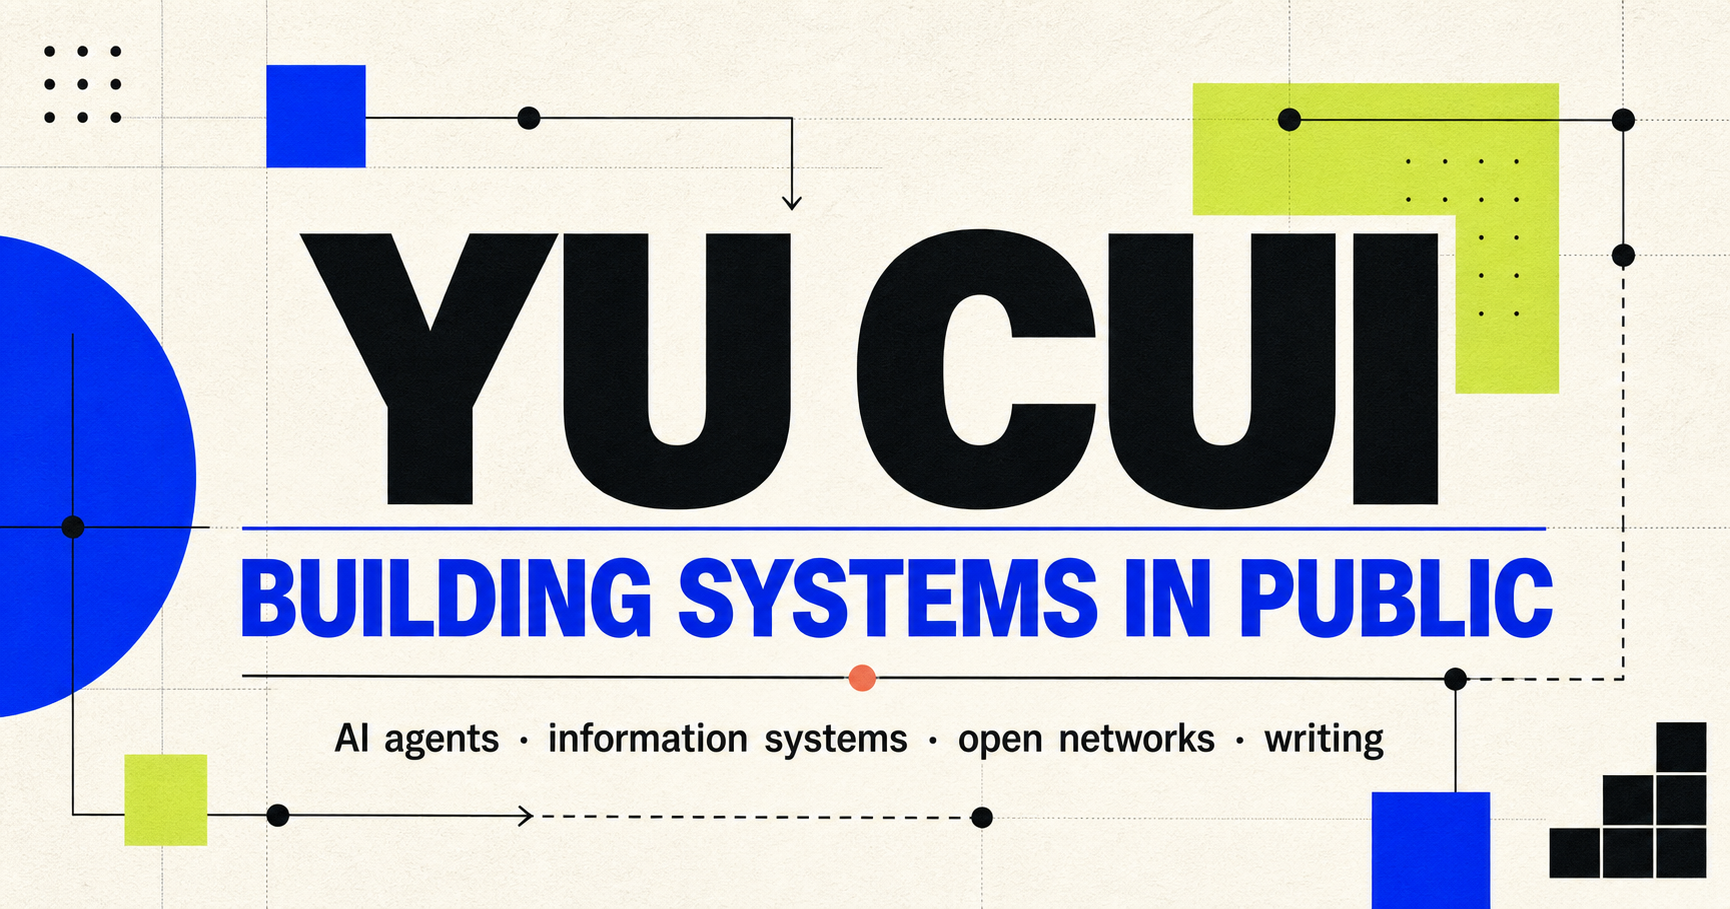
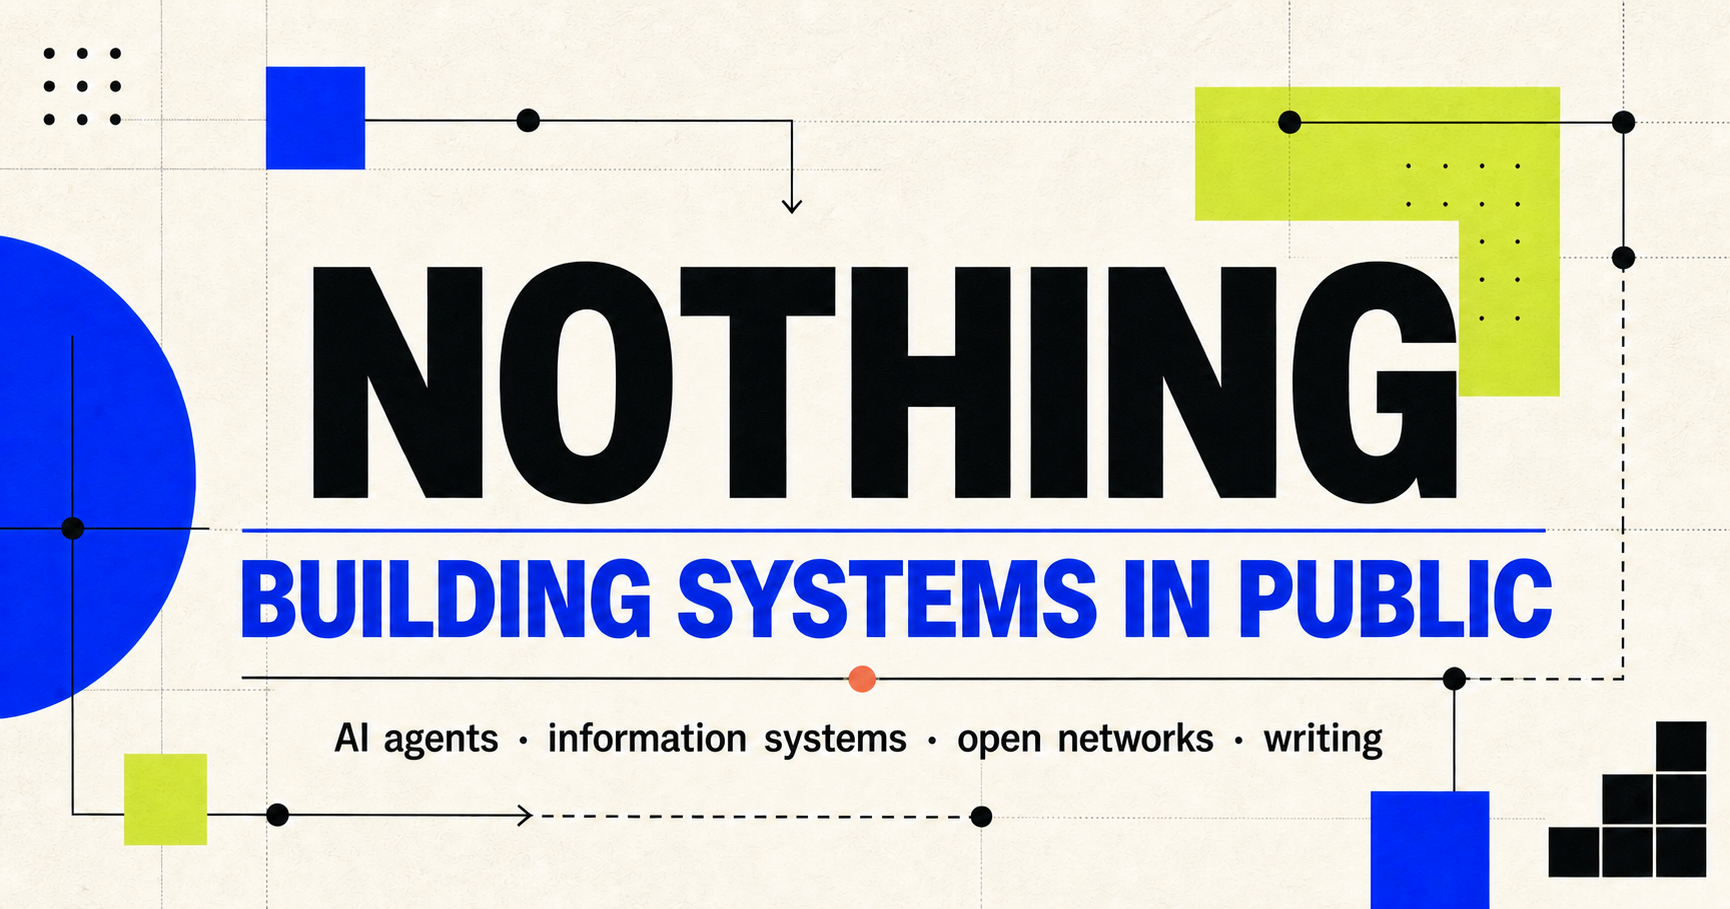
fix: publish anonymous social preview

diff --git a/index.html b/index.html
@@ -6,23 +6,30 @@
     <meta name="theme-color" content="#f4f0e8" />
     <meta
       name="description"
-      content="Yu Cui builds AI agent infrastructure, information systems, open-network experiments, and serialized fiction."
+      content="Nothing builds AI agent infrastructure, information systems, open-network experiments, and serialized fiction at @ChoeyCui."
     />
-    <meta property="og:title" content="Yu Cui — Builder profile" />
+    <meta property="og:title" content="Nothing — Builder profile" />
     <meta
       property="og:description"
-      content="AI agents, infrastructure, information systems, open networks, and writing. Inspect the work in Yu's Build Matrix."
+      content="AI agents, infrastructure, information systems, open networks, and writing. Inspect the work in @ChoeyCui's Build Matrix."
     />
     <meta property="og:type" content="website" />
-    <meta property="og:image" content="./og.png" />
+    <meta property="og:url" content="https://choeycui.github.io/" />
+    <meta property="og:image" content="https://choeycui.github.io/og.png?v=20260826-2" />
+    <meta property="og:image:secure_url" content="https://choeycui.github.io/og.png?v=20260826-2" />
+    <meta property="og:image:type" content="image/png" />
+    <meta property="og:image:width" content="1730" />
+    <meta property="og:image:height" content="909" />
+    <meta property="og:image:alt" content="Nothing — building systems in public" />
     <meta name="twitter:card" content="summary_large_image" />
-    <meta name="twitter:title" content="Yu Cui — Builder profile" />
+    <meta name="twitter:title" content="Nothing — Builder profile" />
     <meta
       name="twitter:description"
       content="AI agents, infrastructure, information systems, open networks, and writing."
     />
-    <meta name="twitter:image" content="./og.png" />
-    <title>Yu Cui — Profile</title>
+    <meta name="twitter:image" content="https://choeycui.github.io/og.png?v=20260826-2" />
+    <meta name="twitter:image:alt" content="Nothing — building systems in public" />
+    <title>Nothing — Builder profile</title>
     <link rel="manifest" href="./site.webmanifest" />
     <link rel="stylesheet" href="./styles.css" />
     <script src="./app.js" defer></script>
@@ -31,9 +38,9 @@
     <a class="skip-link" href="#main">Skip to content</a>
 
     <header class="site-header" id="top">
-      <a class="wordmark" href="#top" aria-label="Yu Cui, home">
+      <a class="wordmark" href="#top" aria-label="Nothing, home">
         <span class="wordmark-mark" aria-hidden="true">YC</span>
-        <span>Yu Cui</span>
+        <span>Nothing</span>
       </a>
       <nav aria-label="Primary navigation">
         <a href="#profile">Profile</a>
@@ -48,18 +55,18 @@
 
     <main id="main">
       <section class="profile-hero shell" id="profile" aria-labelledby="profile-name">
-        <aside class="identity-panel" aria-label="Yu Cui profile">
+        <aside class="identity-panel" aria-label="Nothing profile">
           <div class="avatar-wrap">
             <img
               src="./avatar.jpg"
-              alt="Yu Cui"
+              alt="Nothing"
               width="180"
               height="180"
             />
             <span class="availability"><i></i> building now</span>
           </div>
           <p class="profile-handle">@ChoeyCui</p>
-          <h1 id="profile-name">Yu Cui</h1>
+          <h1 id="profile-name">Nothing</h1>
           <p class="profile-role">Ex-NIQ data scientist → builder</p>
           <p class="profile-location">AI agents · infrastructure · information systems · open networks</p>
           <div class="profile-links">
@@ -184,7 +191,7 @@
           <p class="eyebrow"><span></span> Writing lane</p>
           <h2 id="writing-title">Building systems, then leaving room for fiction.</h2>
           <p>
-            The serialized novel is an original Yu Cui work developed with an
+            The serialized novel is an original work published by @ChoeyCui and developed with an
             AI-assisted drafting and editorial process. Public chapters are
             inspectable; outlines, future turns, and private drafts stay private.
           </p>
@@ -238,7 +245,7 @@
     </main>
 
     <footer class="site-footer shell">
-      <p>© 2026 Yu Cui</p>
+      <p>© 2026 @ChoeyCui</p>
       <p>AI agents · information systems · open networks · writing</p>
       <a href="#top">Back to top ↑</a>
     </footer>

diff --git a/building.html b/building.html
@@ -4,20 +4,20 @@
     <meta charset="UTF-8" />
     <meta name="viewport" content="width=device-width, initial-scale=1.0" />
     <meta name="theme-color" content="#101311" />
-    <meta name="description" content="Yu Cui's public build log: current work, progress, decisions, and useful failures." />
-    <meta property="og:title" content="Building in public — Yu Cui" />
-    <meta property="og:description" content="Progress, decisions, and useful failures from Yu's AI agent and information-systems work." />
+    <meta name="description" content="@ChoeyCui's public build log: current work, progress, decisions, and useful failures." />
+    <meta property="og:title" content="Building in public — Nothing" />
+    <meta property="og:description" content="Progress, decisions, and useful failures from @ChoeyCui's AI agent and information-systems work." />
     <meta property="og:image" content="./og.png" />
     <meta name="twitter:card" content="summary_large_image" />
-    <title>Building in public — Yu Cui</title>
+    <title>Building in public — Nothing</title>
     <link rel="stylesheet" href="./styles.css" />
   </head>
   <body class="build-log-page">
     <a class="skip-link" href="#main">Skip to content</a>
     <header class="site-header dark-header">
-      <a class="wordmark" href="./index.html" aria-label="Back to Yu Cui profile">
+      <a class="wordmark" href="./index.html" aria-label="Back to Nothing profile">
         <span class="wordmark-mark" aria-hidden="true">YC</span>
-        <span>Yu Cui</span>
+        <span>Nothing</span>
       </a>
       <nav aria-label="Build log navigation">
         <a href="./index.html">Profile</a>
@@ -91,7 +91,7 @@
     </main>
 
     <footer class="site-footer shell">
-      <p>© 2026 Yu Cui</p>
+      <p>© 2026 @ChoeyCui</p>
       <p>Build log / evidence over announcement</p>
       <a href="./index.html">Back to profile ←</a>
     </footer>

diff --git a/README.md b/README.md
@@ -1,10 +1,10 @@
-# Yu Cui conversion landing page
+# Nothing / @ChoeyCui conversion landing page
 
 Static GitHub Pages-ready conversion landing page for visitors arriving from X. This is **not** the final personal homepage; the homepage is a later product surface.
 
 ## Purpose
 
-- Explain Yu's builder identity in under 15 seconds.
+- Explain @ChoeyCui's builder identity in under 15 seconds.
 - Separate live proof from designs and experiments.
 - Make cross-domain, cross-layer project relationships legible through the Build Matrix.
 - Send interested visitors to working demos, GitHub, and `@ChoeyCui`.
@@ -20,4 +20,3 @@ Preferred: the root of a dedicated public `choeycui.github.io` repository. The r
 ## Future information architecture
 
 See [`SITE_STRUCTURE.md`](./SITE_STRUCTURE.md). The final root Profile Home is reserved now without expanding its UI. When that page is built, this landing page moves to `/build/`.
-
